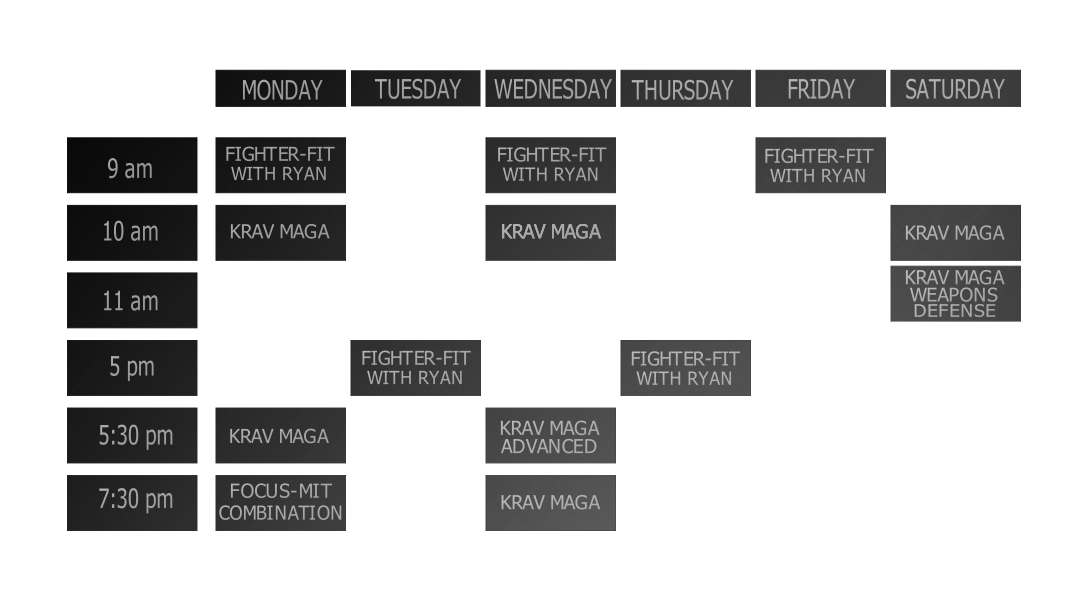
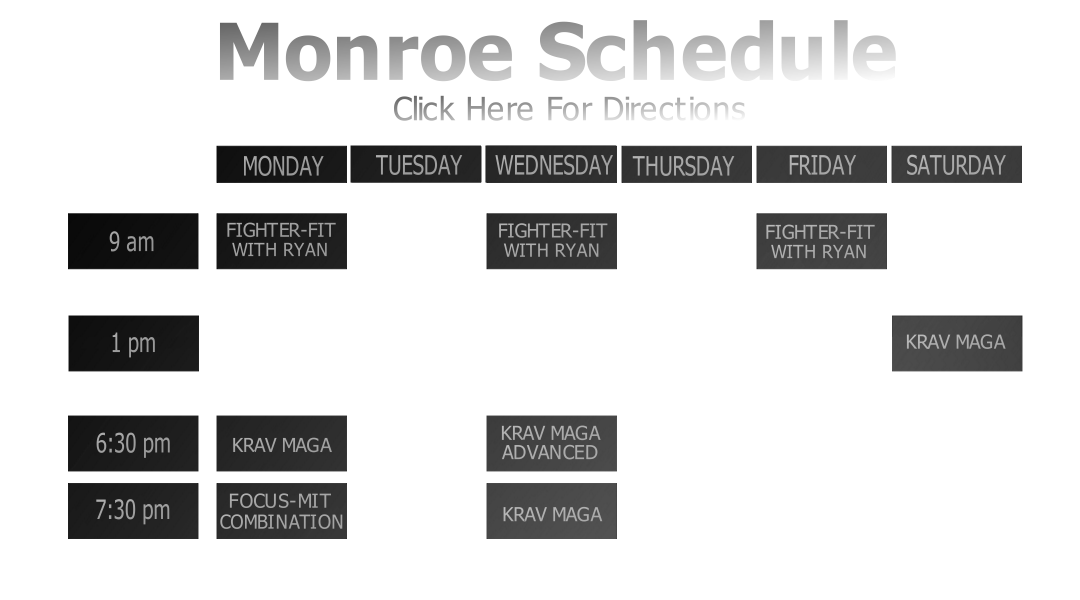
big

Changed region(s): [[0.0611, 0.03, 0.9472, 0.9]]

diff --git a/index.html b/index.html
@@ -144,6 +144,23 @@
     </section>
     <!--//END QUOTE SECTION -->
 	
+			  <!-- BEGIN FUNNY BOXES SECTION -->
+    <section id="rj-funny-boxes6" class="section hide">
+        
+        <div id="schedule" class="section-inner">
+            
+            <div class="container section-content" style="padding-top:20;padding-bottom:0;">
+                <div class="row">
+					<img src="assets/img/title.png" alt="Schedule">
+                </div>    
+                <!-- //.row -->
+
+            </div>
+            <!-- //.section-content -->
+        </div>
+        <!-- //.section-inner -->
+    </section>
+    <!--//END FUNNY BOXES SECTION -->
 	
     <!-- BEGIN WHO WE ARE SECTION -->
     <section id="rj-who-we-are" class="section hide">
@@ -151,14 +168,14 @@
         <div class="section-inner">
             
             <div class="container section-content">
-                <div class="row">
+     <!--           <div class="row">
                     <div class="col-md-12 col-xs-12 col-lg-12 col-sm-12">
                         <div class="section-title text-center">
                             <h2 class="main-title">Israeli Krav Maga Street Defense</h2>
-                            <!-- <h3 class="sub-title">Some Things You Should Know About Us</h3> -->
+                            <!-- <h3 class="sub-title">Some Things You Should Know About Us</h3> 
                             <span class="section-line"></span>
                         </div>
-                        <!-- //.section-title -->
+                        <!-- //.section-title 
                     </div>
                 </div>
                 <!-- //.row -->
@@ -226,7 +243,43 @@
     </section>
     <!-- //END INTRO SECTION -->
 
+	
+<!-- Modal -->
+<div class="modal fade" id="myModal" tabindex="-1" role="dialog" aria-labelledby="myModalLabel" aria-hidden="true">
+  <div class="modal-dialog modal-lg">
+    <div class="modal-content">
 
+      <div class="modal-body">
+        <img src="assets/img/intro/teampic.jpg" alt="Schedule">
+      </div>
+      <div class="modal-footer">
+        <button type="button" class="btn btn-default" data-dismiss="modal">Close</button>
+       <!--  <button type="button" class="btn btn-primary">Save changes</button> -->
+      </div>
+    </div>
+  </div>
+</div>
+
+
+				  <!-- BEGIN FUNNY BOXES SECTION -->
+    <section id="rj-funny-boxes9" class="section hide">
+        	<!-- Button trigger modal -->
+
+        <div id="schedule" class="section-inner">
+            
+            <div class="container section-content" style="padding-top:35px;padding-bottom:0;">
+         <a href="#" 
+   data-toggle="modal"
+   data-target="#myModal"><img src="assets/img/team.png" alt="Schedule"></a>
+            
+                <!-- //.row -->
+
+            </div>
+            <!-- //.section-content -->
+        </div>
+        <!-- //.section-inner -->
+    </section>
+    <!--//END FUNNY BOXES SECTION -->
 
 
     
@@ -238,7 +291,9 @@
             
             <div class="container section-content" style="padding-top:20;padding-bottom:0;">
                 <div class="row">
-					<img src="assets/img/schedule.png" alt="Schedule">
+					<a target="_blank" 
+					href="https://www.google.com/maps/place/Cannon+Ridge+Krav+Maga+%26+Fitness/@41.345278,-73.250104,17z/data=!3m1!4b1!4m2!3m1!1s0x89e7e2e87fb4ef35:0x8155023dff53b3e3">
+					<img src="assets/img/schedule.png" alt="Schedule"></a>
                 </div>    
                 <!-- //.row -->
 
@@ -249,6 +304,25 @@
     </section>
     <!--//END FUNNY BOXES SECTION -->
 	
+		  <!-- BEGIN FUNNY BOXES SECTION -->
+    <section id="rj-funny-boxes5" class="section hide">
+        
+        <div id="schedule" class="section-inner">
+            
+            <div class="container section-content" style="padding-top:0;padding-bottom:0;">
+                <div class="row">
+					<a target="_blank" 
+					href="https://www.google.com/maps/place/Cannon+Ridge+Krav+Maga+%26+Fitness/@41.345278,-73.250104,17z/data=!3m1!4b1!4m2!3m1!1s0x89e7e2e87fb4ef35:0x8155023dff53b3e3">
+					<img src="assets/img/scheduledanbury.png" alt="Schedule"></a>
+                </div>    
+                <!-- //.row -->
+
+            </div>
+            <!-- //.section-content -->
+        </div>
+        <!-- //.section-inner -->
+    </section>
+    <!--//END FUNNY BOXES SECTION -->
   
    
     
@@ -365,21 +439,36 @@
   
     </section>
     <!--//END QUOTE SECTION -->
-	
+				  <!-- BEGIN FUNNY BOXES SECTION -->
+    <section id="rj-funny-boxes7" class="section hide">
+        
+        <div id="schedule" class="section-inner">
+            
+            <div class="container section-content" style="padding-top:35px;padding-bottom:0;">
+                <div class="row">
+					<img src="assets/img/twitter.png" alt="Schedule">
+                </div>    
+                <!-- //.row -->
+
+            </div>
+            <!-- //.section-content -->
+        </div>
+        <!-- //.section-inner -->
+    </section>
+    <!--//END FUNNY BOXES SECTION -->
 	
 	<!-- BEGIN FUNNY BOXES SECTION -->
     <section id="rj-funny-boxes3" class="section hide">
         
         <div id="tweets" class="section-inner">
             
-            <div class="container section-content">
+            <div class="container section-content" style="padding-top:20px;">
                     <div class="row">
 <!-- 						 <div class="col-md-6">
 							<img src="assets/img/ladiesnight.jpg" alt="Schedule">
 						</div>	 -->
 						<div class="col-md-6 col-md-offset-3">
 							<div class="section-title text-center">
-									<h2 class="main-title">Twitter</h2>
 									<span class="section-line"></span>
 									<a class="twitter-timeline" data-tweet-limit="5" data-theme="dark"  data-link-color=”#ffffff” data-chrome="noscrollbar transparent noheader nofooter" href="https://twitter.com/CannonRidgeTC"  data-widget-id="375080039445823488">Tweets by @CannonRidgeTC</a> 
 
@@ -419,7 +508,7 @@
    
     
 	
-	  <!-- BEGIN FUNNY BOXES SECTION -->
+	  <!-- BEGIN FUNNY BOXES SECTION 
     <section id="rj-funny-boxes" class="section hide">
         
         <div class="section-inner">
@@ -428,9 +517,9 @@
 		     <div id="google-map" style="height:350px" class="wow fadeIn" data-latitude="41.3467567" data-longitude="-73.248085" data-wow-duration="1000ms" data-wow-delay="400ms"></div>
 
             </div>
-            <!-- //.section-content -->
+             //.section-content 
         </div>
-        <!-- //.section-inner -->
+        //.section-inner
     </section>
     <!--//END FUNNY BOXES SECTION -->
 
@@ -451,25 +540,32 @@
     <!--//END QUOTE SECTION -->
 
 	
-    
+    <!-- BEGIN FUNNY BOXES SECTION -->
+    <section id="rj-funny-boxes8" class="section hide">
+        
+        <div id="schedule" class="section-inner">
+            
+            <div class="container section-content" style="padding-top:20;padding-bottom:0;">
+                <div class="row">
+					<img src="assets/img/contactus.png" alt="Schedule">
+                </div>    
+                <!-- //.row -->
+
+            </div>
+            <!-- //.section-content -->
+        </div>
+        <!-- //.section-inner -->
+    </section>
+    <!--//END FUNNY BOXES SECTION -->
+	
     <!-- BEGIN CONTACT US SECTION -->
     <section id="rj-contact-us" class="section hide">
         
         <div id="contact" class="section-inner">
             
             
-            
             <div class="container section-content">
-                <div class="row">
-                    <div class="col-md-12">
-                        <div class="section-title text-center">
-                            <h3 class="main-title">Contact Us</h3>
-                            <h4 class="sub-title">Don't Hesitate To Contact Us</h4>
-                            <span class="section-line"></span>
-                        </div>
-                        <!-- //.section-title -->
-                    </div>
-                </div>
+
                 <!-- //.row -->
                 
                 <div class="row">
@@ -710,21 +806,22 @@
     <script src="assets/js/features/countdown.js"></script>
     <script src="assets/js/features/timeline.js"></script> -->
 	<script type="text/javascript" src="assets/plugins/wow.min.js"></script>
-<!-- 	<script type="text/javascript" src="assets/js/videojs.watermark.js"></script> -->
-	<script type="text/javascript" src="http://maps.google.com/maps/api/js?sensor=true"></script>
+<!-- 	<script type="text/javascript" src="assets/js/videojs.watermark.js"></script> 
+	<script type="text/javascript" src="http://maps.google.com/maps/api/js?sensor=true"></script>-->
 	<script type="text/javascript">
 	 var audio = $("#audio_player");
 		audio[0].volume = .2;
 		audio[0].play();
+		jQuery(document).ready(function() {
+							!function(d,s,id){var js,fjs=d.getElementsByTagName(s)[0];if(!d.getElementById(id)){js=d.createElement(s);js.id=id;js.src="http://platform.twitter.com/widgets.js";fjs.parentNode.insertBefore(js,fjs);}}(document,"script","twitter-wjs");
 		
-	var map;
+		});
+	/*var map;
 	    jQuery(document).ready(function() {
 
 
 
-					!function(d,s,id){var js,fjs=d.getElementsByTagName(s)[0];if(!d.getElementById(id)){js=d.createElement(s);js.id=id;js.src="http://platform.twitter.com/widgets.js";fjs.parentNode.insertBefore(js,fjs);}}(document,"script","twitter-wjs");
-		
-	
+
 
 	//Google Map
 	var latitude = $('#google-map').data('latitude')
@@ -788,7 +885,7 @@
 
 	
 	
-		});
+		});*/
     </script>
 
      <script type="text/javascript">
@@ -829,6 +926,11 @@
 					$('#rj-funny-boxes2').removeClass('hide');
 					$('#rj-funny-boxes3').removeClass('hide');
 					$('#rj-funny-boxes4').removeClass('hide');
+					$('#rj-funny-boxes5').removeClass('hide');
+					$('#rj-funny-boxes6').removeClass('hide');
+					$('#rj-funny-boxes7').removeClass('hide');
+					$('#rj-funny-boxes8').removeClass('hide');
+					$('#rj-funny-boxes9').removeClass('hide');
 					$('#rj-quote').removeClass('hide');
 					$('#rj-charts').removeClass('hide');
 					$('#rj-charts3').removeClass('hide');
@@ -839,9 +941,9 @@
 					$('#rj-keep-in-touch').removeClass('hide');
 					$('#rj-charts2').height('auto');
 					//$('#video_2').css( "opacity", ".9" );
-					var center = map.getCenter();
-					google.maps.event.trigger(map, "resize");
-					map.setCenter(center);
+					//var center = map.getCenter();
+					//google.maps.event.trigger(map, "resize");
+					//map.setCenter(center);
 
 
 				var items = [
